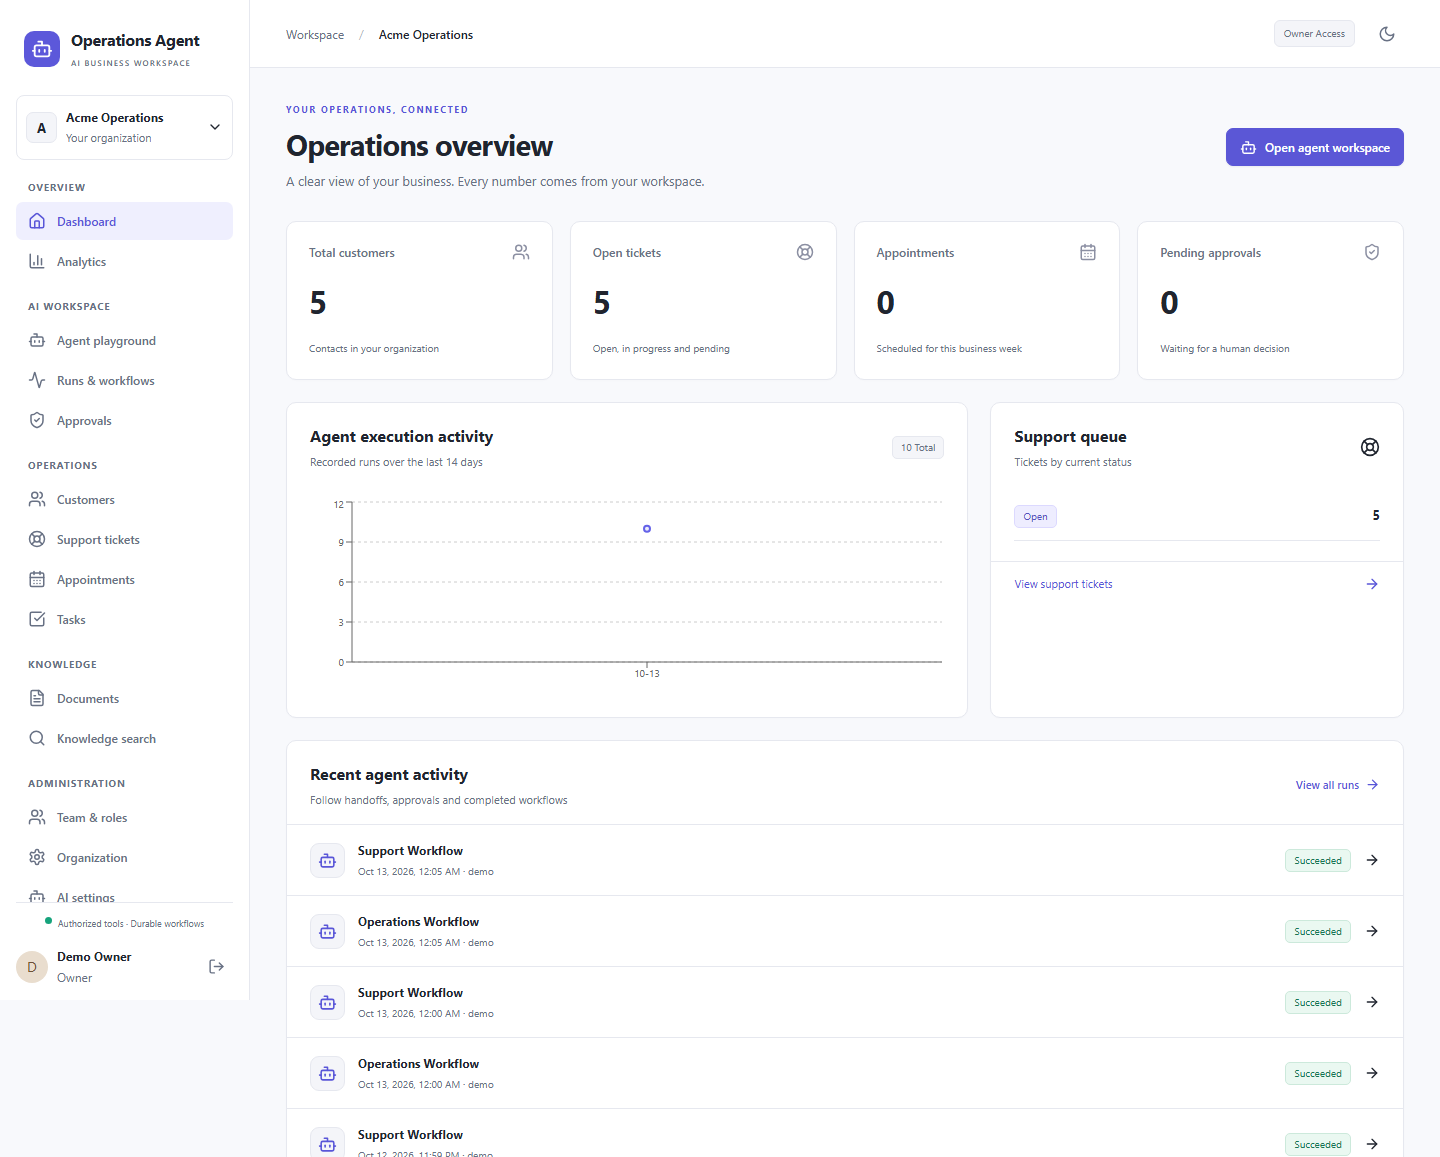
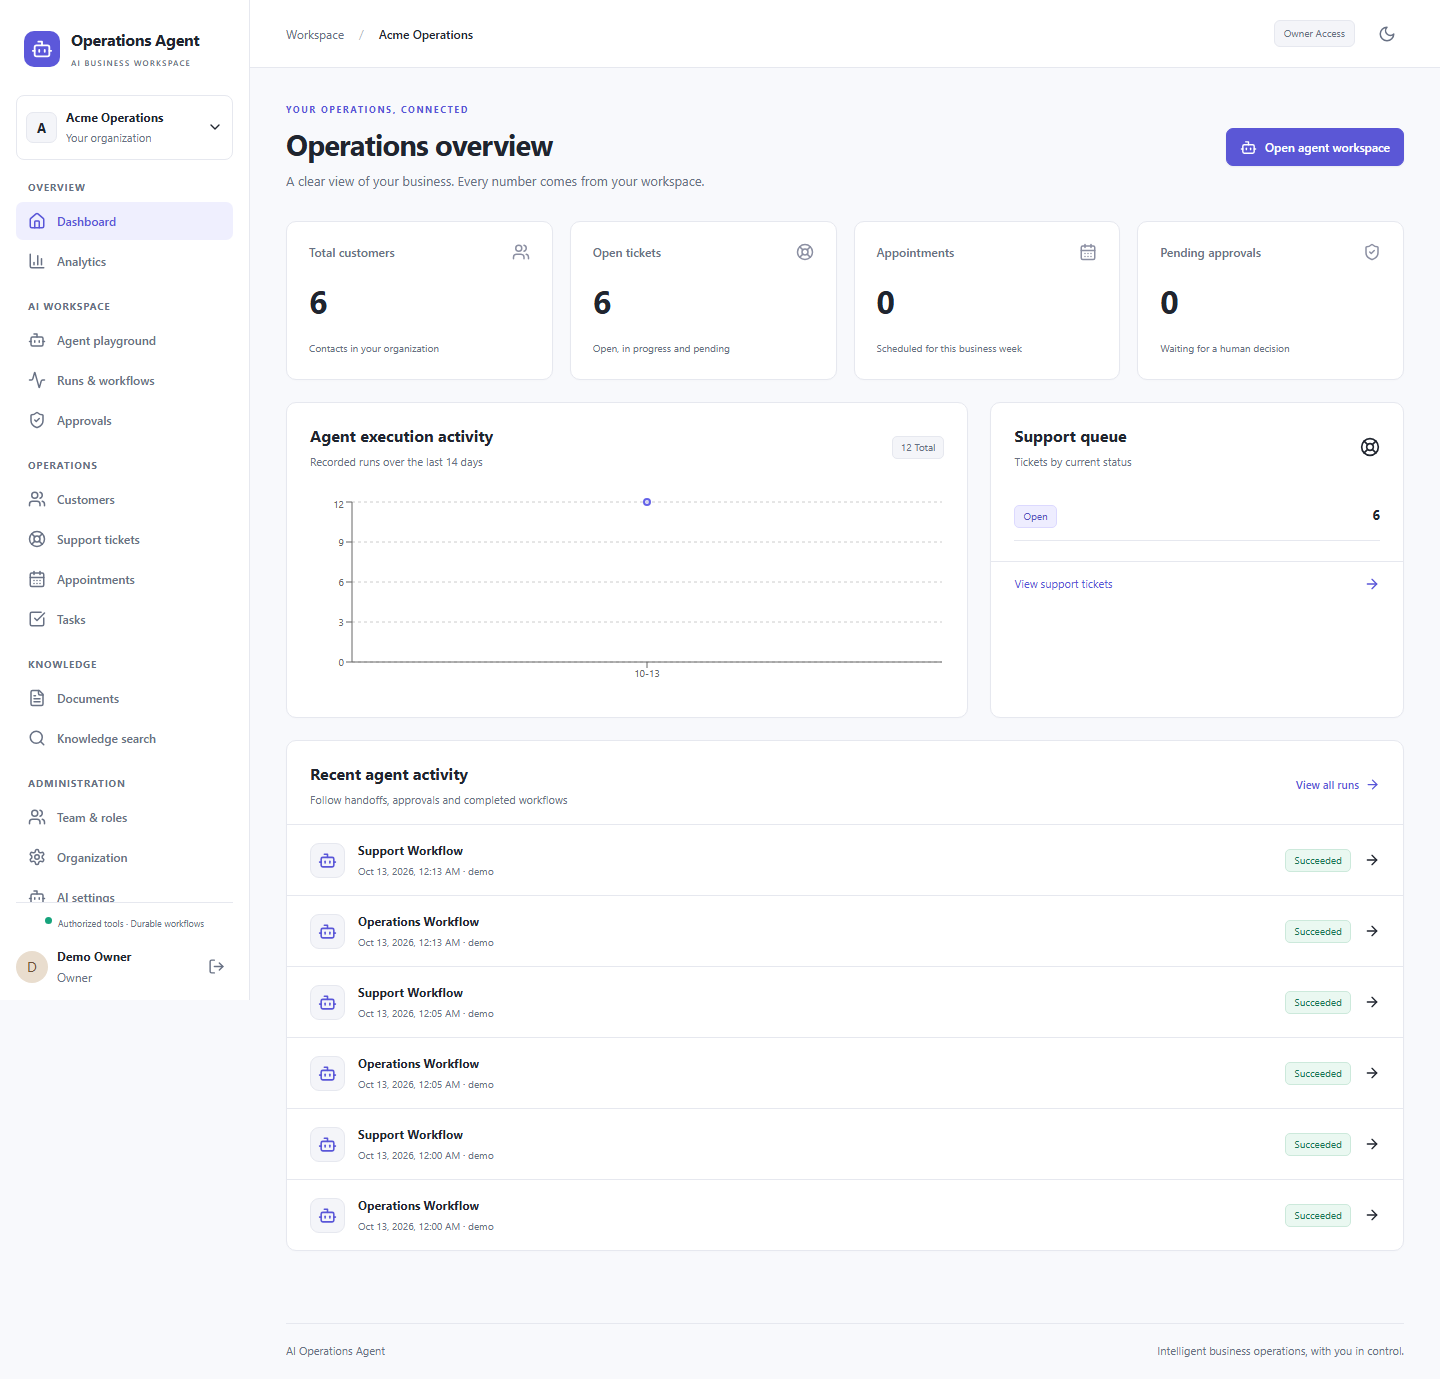
Wait for approved workflow execution in browser test

diff --git a/apps/web/tests/operations.spec.ts b/apps/web/tests/operations.spec.ts
@@ -38,18 +38,21 @@ test('sign in, persist records, run agents, ingest knowledge, approve a change a
     page.getByText('Change submitted for approval. Review it in Approvals.'),
   ).toBeVisible()
   await page.getByRole('link', { name: 'Approvals', exact: true }).click()
-  await page
+  const approval = page
     .locator('.approval-card')
     .filter({ hasText: `updated.${suffix}@example.com` })
-    .getByRole('button', { name: 'Approve action' })
-    .click()
+  const workflowPath = await approval
+    .getByRole('link', { name: 'Inspect workflow' })
+    .getAttribute('href')
+  expect(workflowPath).toBeTruthy()
+  await approval.getByRole('button', { name: 'Approve action' }).click()
   await page.getByRole('button', { name: 'Confirm decision' }).click()
-  await expect(
-    page
-      .locator('.approval-card')
-      .filter({ hasText: `updated.${suffix}@example.com` }),
-  ).toHaveCount(0, { timeout: 20000 })
+  await page.goto(workflowPath!)
+  await expect(page.locator('.run-summary')).toContainText('succeeded', {
+    timeout: 30000,
+  })
   await page.getByRole('link', { name: 'Customers', exact: true }).click()
+  await page.reload()
   await expect(
     page.getByText(`updated.${suffix}@example.com`, { exact: true }),
   ).toBeVisible({ timeout: 20000 })
